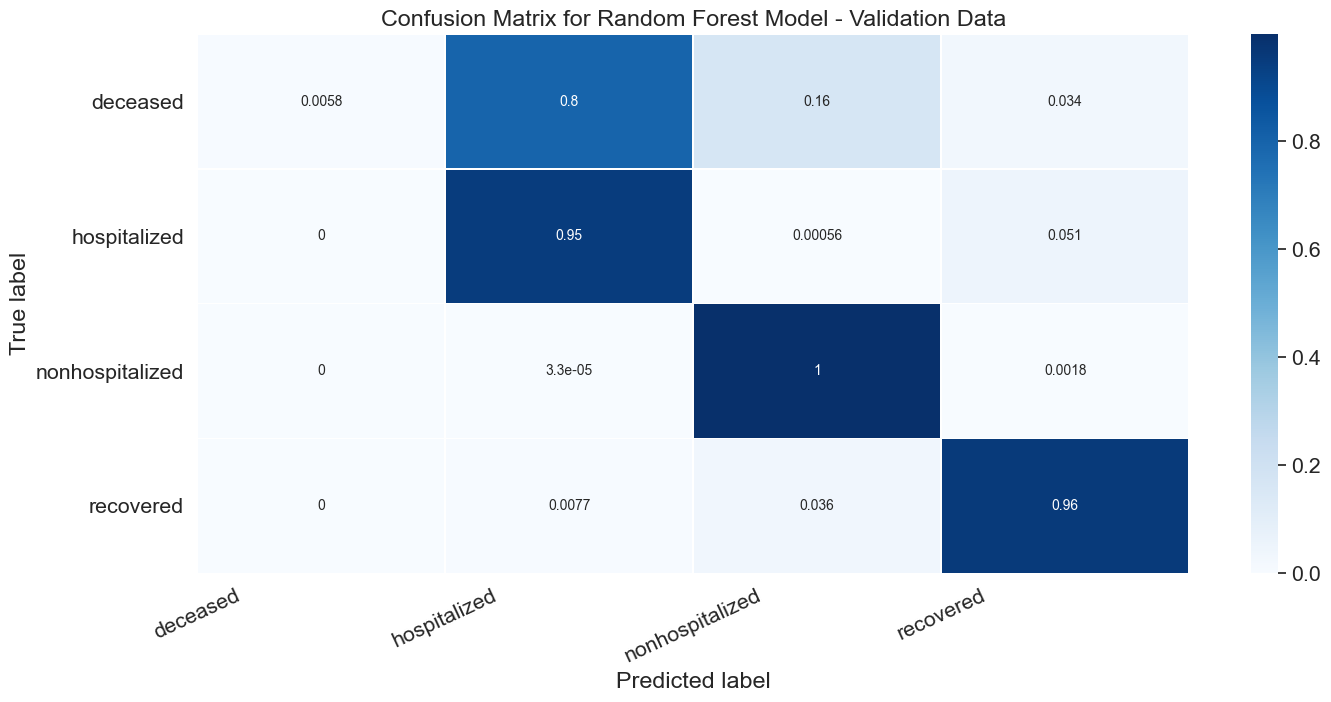
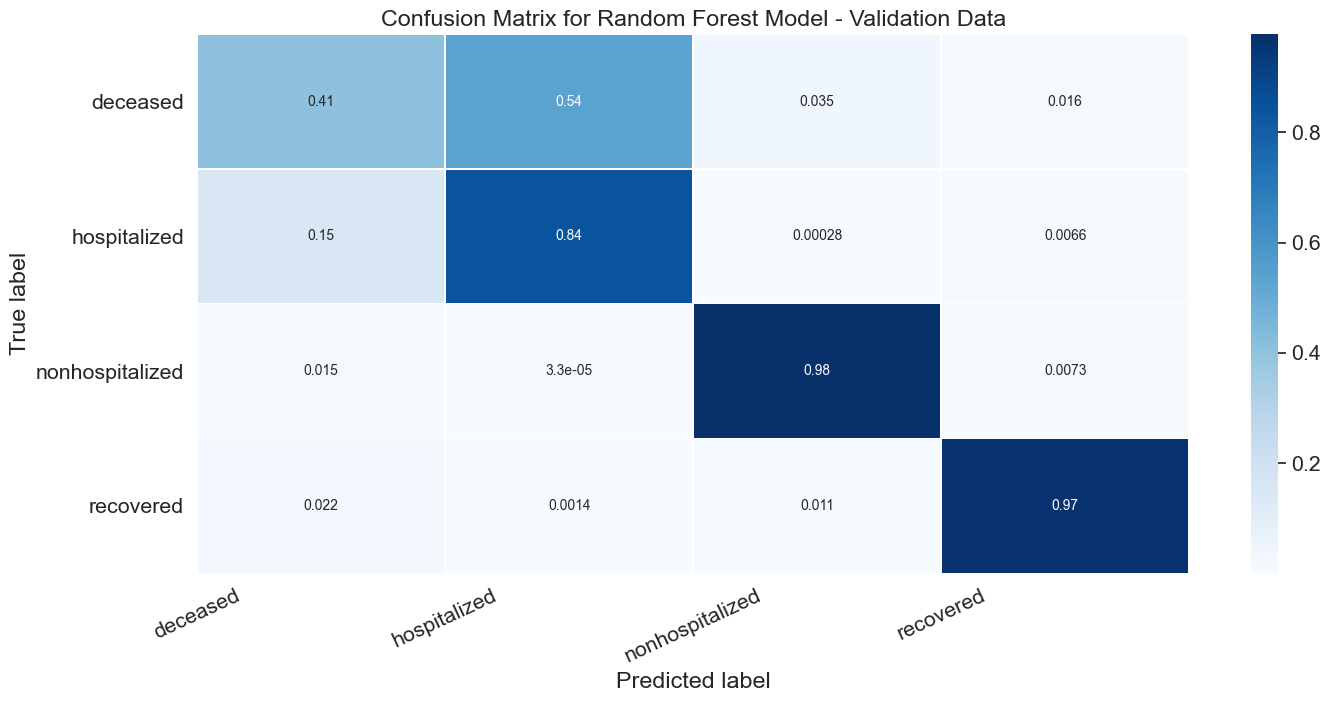
Update One hot encoder

diff --git a/Milestone3/src/Main.py b/Milestone3/src/Main.py
@@ -8,6 +8,7 @@ import pandas as pd
 import os
 from sklearn.preprocessing import LabelEncoder
 import matplotlib.pyplot as plt
+from sklearn.preprocessing import OneHotEncoder
 
 import RandomForests
 from imblearn.over_sampling import SMOTENC
@@ -38,53 +39,33 @@ def random_forest(df):
     outcomes = df['outcome']
     counter = Counter(outcomes)
     print(counter)
-    print((all_data))
 
-    """
-    # One hot encoding for categorical values
-    category_clean = pd.get_dummies(all_data)
-
-    # Attach outcome column back
-    category_clean['outcome'] = df['outcome']
-    category_clean['age_filled'] = df['age_filled']
-    category_clean['filled_sex'] = df['filled_sex']
-    category_clean['province_filled'] = df['province_filled']
-    category_clean['country_filled'] = df['country_filled']
-    
-    print("Splitting data into training and validation sets")
-    train, validate = train_test_split(category_clean, test_size=0.2, random_state=42, shuffle=True)
-    """
-
-    train_x, validate_x, train_y, validate_y = train_test_split(all_data,outcomes, test_size=0.2, random_state=42, shuffle=True)
+    train_x, validate_x, train_y, validate_y = train_test_split(all_data, outcomes, test_size=0.2, random_state=42, shuffle=True)
+    encoder = OneHotEncoder(categories = "auto", handle_unknown='ignore')
+    encoder.fit(all_data)
 
 
     # the [0,1,2,3] are the index of which columns hold categorical values if im not wrong
     smotenc = SMOTENC([0,1,2,3],random_state = 101)
     X,y = smotenc.fit_resample(train_x, train_y)
-    x_dataframe = pd.DataFrame(X)
-    category_clean = pd.get_dummies(x_dataframe)
-    print(category_clean)
+    x_dataframe = pd.DataFrame(X, columns=['age_filled', 'filled_sex', 'province_filled',
+                'country_filled','Confirmed', 'Deaths', 'Recovered','Active',
+                'Incidence_Rate', 'Case-Fatality_Ratio'])
+    train_x_encoded = encoder.transform(x_dataframe)
+    
 
-
-    """
-    train_attr = train.drop(columns=['outcome', 'age_filled','filled_sex','province_filled','country_filled']) # Features
-    train_outcomes = train[['outcome']]
-
-    v_data = validate.drop(columns=['outcome', 'age_filled','filled_sex','province_filled','country_filled'])
-    v_outcomes = validate[['outcome']]
-    """
     # 2.2 Training Model
     print("Training Random Forests")
-    RandomForests.rf_train(category_clean, y, param_grid)
+    RandomForests.rf_train(train_x_encoded, y, param_grid)
 
 
     # 2.3 Evaluate performance
     print("Evaluating Random Forests Training")
-    train_x_encoded = pd.get_dummies(train_x)
-    RandomForests.rf_eval(train_x_encoded,train_y, True)
+    train_x_encoded = encoder.transform(train_x)
+    RandomForests.rf_eval(train_x_encoded, train_y, True)
 
     print("Evaluating Random Forests Validation")
-    validate_x_encoded = pd.get_dummies(validate_x)
+    validate_x_encoded = encoder.transform(validate_x)
     RandomForests.rf_eval(validate_x_encoded,validate_y,False)
     """
     RandomForests.investigate_deaths(validate)
